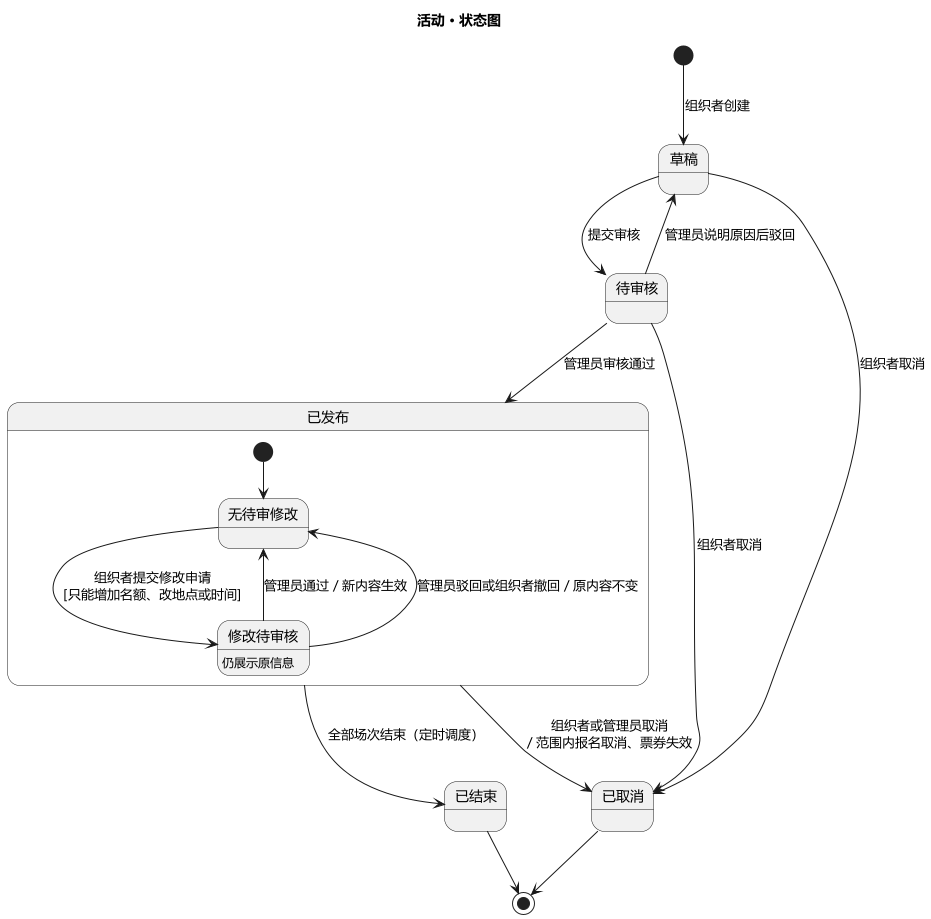
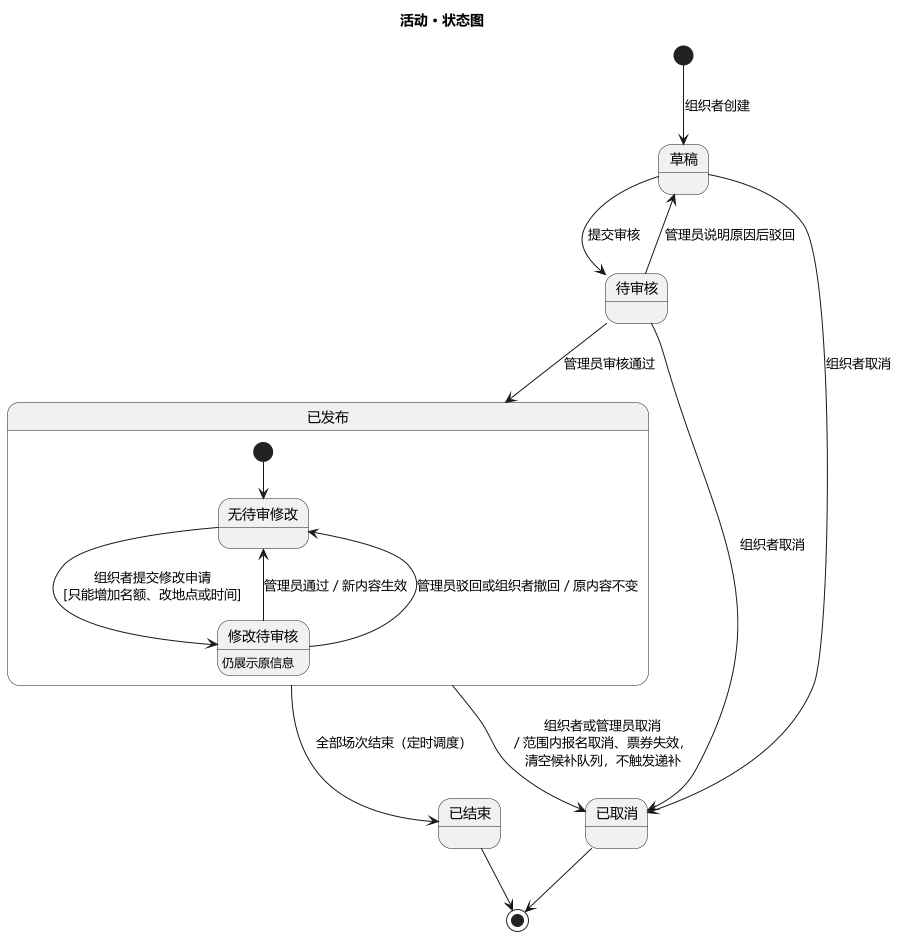
Stop promoting waitlist when an activity is cancelled
Manual revision: cancelling an activity, session or ticket type
invalidates tickets without promotion and clears the waitlist queue.
Personal refunds still release the seat and promote the next entry.

diff --git a/lab2/modules.md b/lab2/modules.md
@@ -54,7 +54,7 @@
 | M5 | M8 | 成功进入候补后发送入队提醒（同一事件只发一次） |
 | M3 | M2 | 审核通过后把活动状态改为已发布，或让修改申请生效 |
 | M3 | M5 | 增加名额的修改申请通过后，触发同类别候补递补 |
-| M2 | M5、M6 | 取消活动、场次或类别时，批量取消范围内的报名和候补，并让对应票券失效 |
+| M2 | M5、M6 | 取消活动、场次或类别时，批量取消范围内的报名并让对应票券失效；同时清空候补队列，删除候补记录和候补凭证，不触发递补 |
 | M7 | M6、M5 | 检票时核验正式票，并把报名记录改为已签到 |
 | S1 | M5、M7、M2 | 按时间触发候补失效、缺席标记、活动结束 |
 | M9 | M7、M2 | 依据真实签到记录判定“已出席”标识，依据活动管理关系判定“活动官方”标识 |
